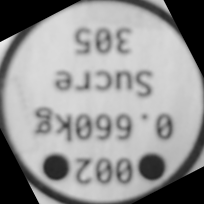
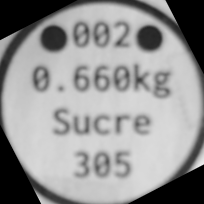
...

diff --git a/vision/main.cpp b/vision/main.cpp
@@ -272,11 +272,18 @@ namespace ContourDetector {
         // Calculate angle
         double rise = centers[secondInnerCircle].y - centers[firstInnerCircle].y;
         double run = centers[secondInnerCircle].x - centers[firstInnerCircle].x;
-        double slope = rise / run;
-        double angle_degrees = atan(slope)*180.0 / CV_PI;
-        if (centers[secondInnerCircle].x < centers[i].x) {
-          angle_degrees += 180.0;
+        double angle_degrees;
+        if (run == 0) { // edge case both circles are vertically aligned
+          angle_degrees = centers[secondInnerCircle].x > centers[i].x ? 90.0 : -90.0; // TODO: Test this is the correct way... pure guess right now
+        } else {
+          angle_degrees = atan2(rise, run)*180.0 / CV_PI;
+
+          double avg_x = (centers[secondInnerCircle].x + centers[firstInnerCircle].x)/2;
+          if (avg_x > centers[i].x) { // FIXME: I don't think this is 100% accurate...
+            angle_degrees += 180.0;
+          }
         }
+
         cout << "angle_degrees: "  << angle_degrees << endl;
  
         circle( drawing, centers[i], 4, Scalar(0,0,255), FILLED );
